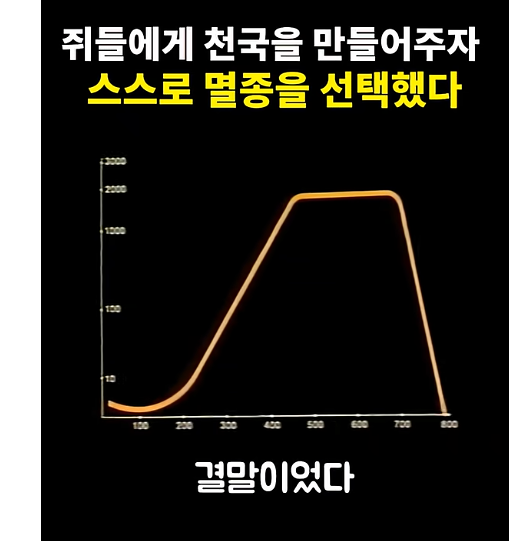
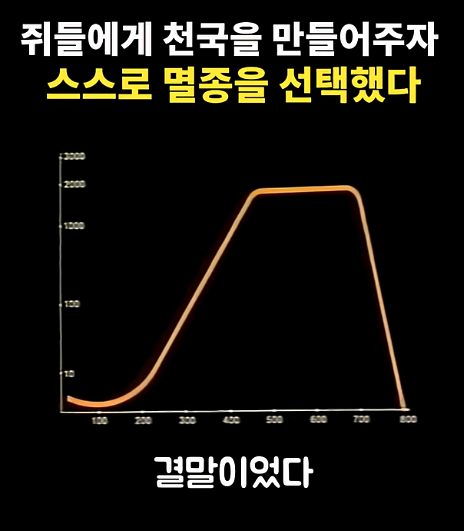
.

Changed region(s): [[0.0, 0.0, 1.0, 1.0], [0.1207, 0.2712, 0.9052, 0.8136], [0.3319, 0.8437, 0.694, 0.9341]]

diff --git a/images/2026.html b/images/2026.html
@@ -83,12 +83,6 @@
 
 <img src="../i/20261025_04.png">
 
-<img src="../i/20261025_05.png">
-
-<img src="../i/20261025_06.png">
-
-<img src="../i/20261025_07.png">
-
 <h2>20261024</h2>
 
 <img src="../i/20261024.png">
